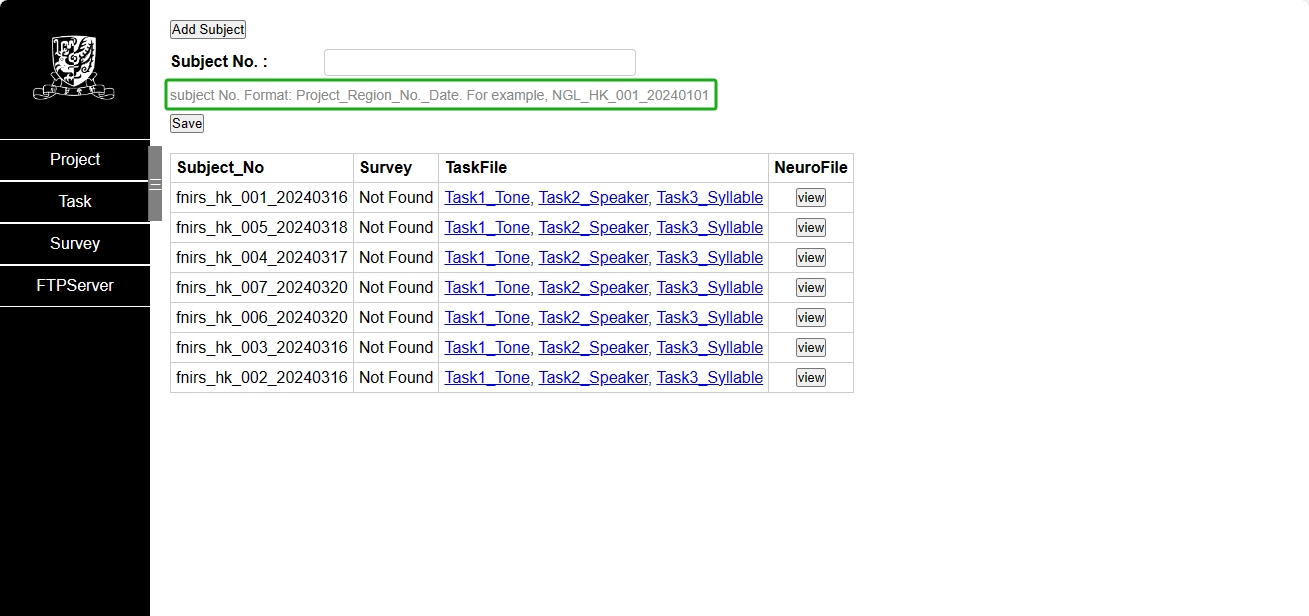
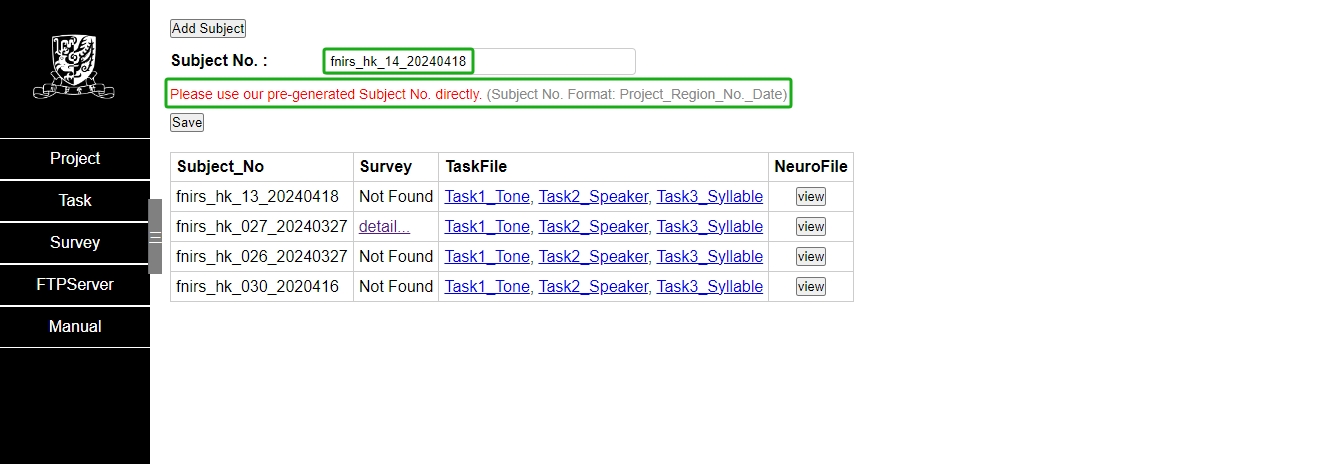
Deployed 5e28717 with MkDocs version: 1.5.3

Changed region(s): [[0.0, 0.0302, 0.6723, 0.6638], [0.0306, 0.694, 0.0917, 0.7241], [0.0917, 0.7241, 0.1222, 0.7543]]

diff --git a/index.html b/index.html
@@ -124,10 +124,10 @@
 <p><img alt="" src="img/project_1.png" /></p>
 <h3 id="subject">Subject</h3>
 <p>If you click the project name or double-click this project item, you will jump to the subpage which lists all the subject information of this project.</p>
-<p>Click <code>Add Subject</code> button then you can add subjects for this project. You need to specify the <code>Subject No.</code> and make sure it matches the naming format in the prompt message. Please note that <code>Subject No.</code> does not allow duplicates.</p>
+<p>Click <code>Add Subject</code> button then you can add subjects for this project. The system will automatically generate the latest Subject No. in a specific format. Although we allow modifications, in most cases please use the system-generated Subject No. to directly! Please note that <code>Subject No.</code> does not allow duplicates.</p>
 <p>Here are descriptions of these fields:</p>
 <ul>
-<li><code>Subject_No</code>: Specified by you.</li>
+<li><code>Subject_No</code>: Automatically generated by system.</li>
 <li><code>Survey</code>: Associated with the survey system automatically, supports clicking to jump to the survey answer page. Will be mentioned again later.</li>
 <li><code>TaskFile</code>: Lists all the tasks of this project and supports clicking to jump to the file system to view this subject's task data. Each task corresponds to a <code>Behavior</code> file. Will be mentioned again later.</li>
 <li><code>NeuroFile</code>: Supports clicking to jump to the file system to view this subject's <code>Neuroimaging</code> data.</li>
@@ -240,5 +240,5 @@
 
 <!--
 MkDocs version : 1.5.3
-Build Date UTC : 2024-04-17 08:11:37.053959+00:00
+Build Date UTC : 2024-04-18 08:34:06.189303+00:00
 -->
